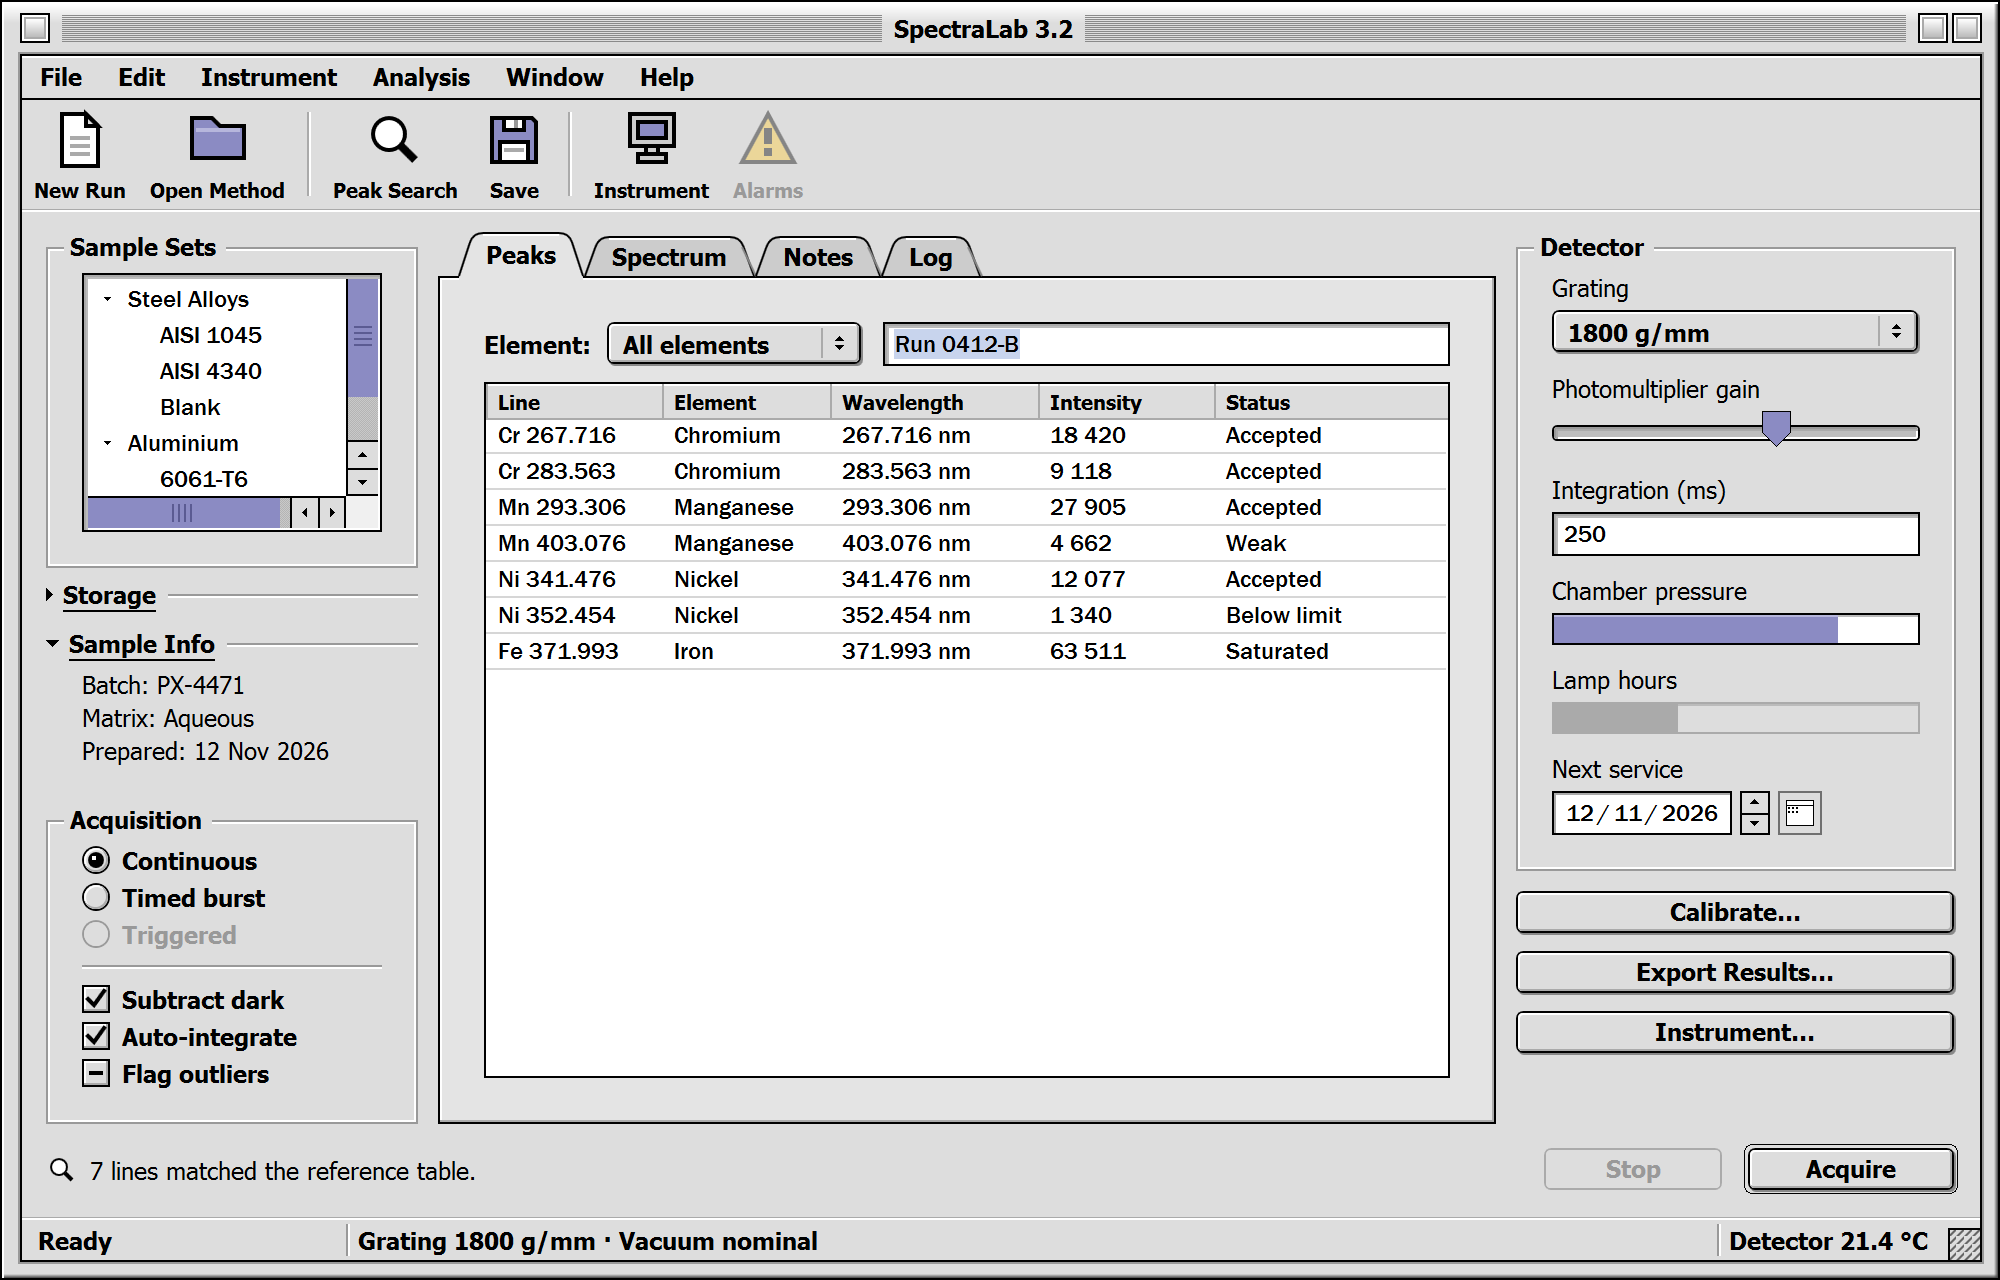
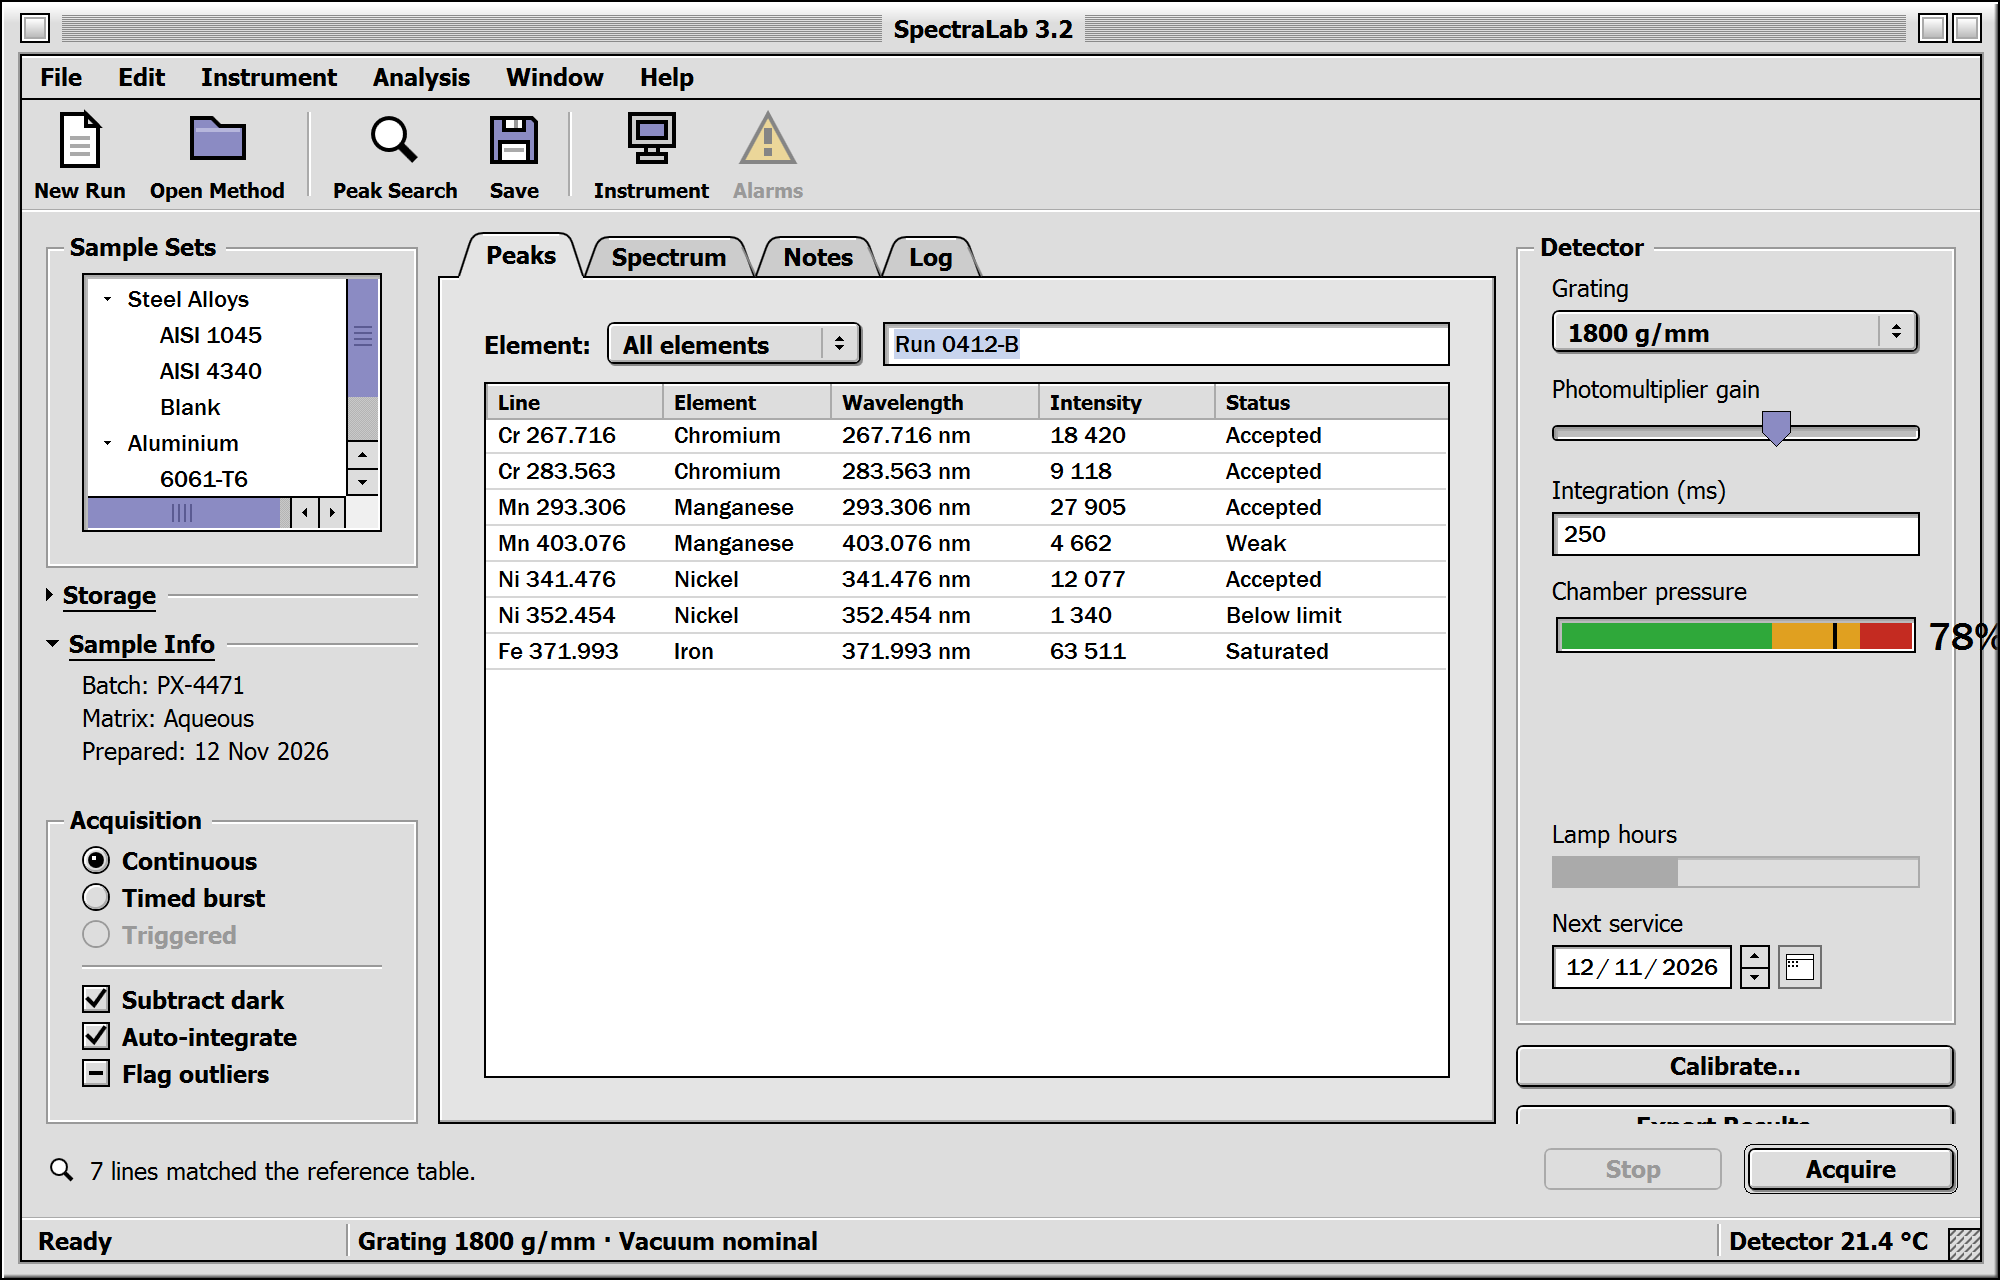
Pone el medidor de nivel en dos programas de muestra
CineCut estrena el búfer de las dos platinas, en modo Fill y con las
franjas al derecho: más es mejor, así que la baja es la roja. SpectraLab
usa la presión de cámara en modo Zones y en horizontal, con las franjas al
revés. El par muestra que el sentido lo decide quien declara las franjas y
no el control.

Los búferes se mueven con un reloj que camina los valores de verdad, no
con una animación sobre la propiedad: así se ve el relleno cambiando de
color al cruzar un umbral, que es lo único que un medidor quieto no
enseña. Y es como llega el dato en una aplicación real.

Deck B va sin escala: es la misma de Deck A, a la misma altura y con el
mismo rango, y repetirla solo gastaba el ancho que hacía falta para que la
cifra cupiera.

Changed region(s): [[0.744, 0.4688, 1.0, 0.875]]

diff --git a/src/MacOS9.Platinum.Gallery/VideoWindow.xaml b/src/MacOS9.Platinum.Gallery/VideoWindow.xaml
@@ -1,4 +1,4 @@
-<platinum:PlatinumWindow x:Class="MacOS9.Platinum.Gallery.VideoWindow"
+<platinum:PlatinumWindow x:Class="MacOS9.Platinum.Gallery.VideoWindow"
         xmlns="http://schemas.microsoft.com/winfx/2006/xaml/presentation"
         xmlns:x="http://schemas.microsoft.com/winfx/2006/xaml"
         xmlns:platinum="clr-namespace:MacOS9.Platinum.Controls;assembly=MacOS9.Platinum"
@@ -63,12 +63,33 @@
                 <RowDefinition Height="Auto" />
             </Grid.RowDefinitions>
             <Grid.ColumnDefinitions>
-                <ColumnDefinition Width="240" />
+                <ColumnDefinition Width="300" />
                 <ColumnDefinition Width="*" />
                 <ColumnDefinition Width="210" />
             </Grid.ColumnDefinitions>
 
-            <GroupBox Grid.Row="0" Grid.Column="0" Header="Bin" Margin="0,0,10,0">
+            <DockPanel Grid.Row="0" Grid.Column="0" Margin="0,0,10,0">
+
+              <!-- Búfer de las dos platinas. Modo Fill: el nivel se lee del área
+                   llena y el color dice si alcanza. Aquí más es mejor, así que la
+                   franja baja es la roja. -->
+              <GroupBox DockPanel.Dock="Bottom" Header="Deck buffers" Margin="0,10,0,0">
+                <DockPanel Margin="4,2,4,4">
+                  <StackPanel DockPanel.Dock="Left" Margin="0,0,14,0">
+                    <platinum:PlatinumLevelGauge x:Name="BuferA" Value="72" Height="150" ReadoutFontSize="16" />
+                    <TextBlock Text="Deck A" HorizontalAlignment="Center" Margin="0,4,0,0" />
+                  </StackPanel>
+                  <StackPanel>
+                    <!-- Sin escala: es la misma de Deck A, a la misma altura y con el mismo
+                         rango, así que repetirla solo gasta ancho. -->
+                    <platinum:PlatinumLevelGauge x:Name="BuferB" Value="38" Height="150"
+                                                 ReadoutFontSize="16" ShowScale="False" />
+                    <TextBlock Text="Deck B" HorizontalAlignment="Center" Margin="0,4,0,0" />
+                  </StackPanel>
+                </DockPanel>
+              </GroupBox>
+
+              <GroupBox Header="Bin">
                 <ListView x:Name="Clips" BorderThickness="0">
                     <ListView.View>
                         <GridView>
@@ -79,7 +100,8 @@
                         </GridView>
                     </ListView.View>
                 </ListView>
-            </GroupBox>
+              </GroupBox>
+            </DockPanel>
 
             <DockPanel Grid.Row="0" Grid.Column="1" Margin="0,0,10,0">
                 <!-- Cuadro de vista previa. Es un degradado y unas figuras, no un

diff --git a/src/MacOS9.Platinum.Gallery/MainWindow.xaml b/src/MacOS9.Platinum.Gallery/MainWindow.xaml
@@ -235,8 +235,16 @@
                         <TextBlock Text="Integration (ms)" Margin="0,0,0,4" />
                         <TextBox Text="250" Margin="0,0,0,10" />
 
+                        <!-- Modo Zones: en una presión de cámara lo que importa es
+                             en qué franja está, y verlas todas evita tener que
+                             recordar dónde queda el límite. -->
                         <TextBlock Text="Chamber pressure" Margin="0,0,0,4" />
-                        <ProgressBar Value="78" Height="16" Margin="0,0,0,10" />
+                        <platinum:PlatinumLevelGauge x:Name="Presion" Value="78"
+                                                     Orientation="Horizontal"
+                                                     BandMode="Zones"
+                                                     TrackThickness="18"
+                                                     ShowScale="False"
+                                                     Margin="0,0,0,10" />
 
                         <TextBlock Text="Lamp hours" Margin="0,0,0,4" />
                         <ProgressBar Value="34" Height="16" IsEnabled="False" Margin="0,0,0,10" />

diff --git a/src/MacOS9.Platinum.Gallery/VideoWindow.xaml.cs b/src/MacOS9.Platinum.Gallery/VideoWindow.xaml.cs
@@ -1,6 +1,8 @@
+using System;
 using System.Windows;
 using System.Windows.Controls;
 using System.Windows.Media;
+using System.Windows.Threading;
 using System.Windows.Shapes;
 using MacOS9.Platinum.Controls;
 
@@ -26,7 +28,44 @@ public partial class VideoWindow : PlatinumWindow
             new { Clip = "credits", Length = "00:36:02" },
         };
 
+        // Las franjas se declaran aquí y no en el marcado porque son las mismas dos
+        // veces: el búfer de las dos platinas se juzga con el mismo criterio.
+        foreach (PlatinumLevelGauge medidor in new[] { BuferA, BuferB })
+        {
+            medidor.Bands.Add(new LevelBand { To = 25, Fill = (Brush)FindResource("LedRedBrush") });
+            medidor.Bands.Add(new LevelBand { To = 50, Fill = (Brush)FindResource("LedAmberBrush") });
+            medidor.Bands.Add(new LevelBand { To = 100, Fill = (Brush)FindResource("LedGreenBrush") });
+        }
+
         Pista.SizeChanged += (_, _) => Dibujar();
+
+        // Los búferes se mueven. Un medidor quieto no enseña lo que hace: lo que
+        // hay que ver es el nivel subiendo y bajando, y el relleno cambiando de
+        // color al cruzar un umbral.
+        //
+        // No se anima la propiedad con una animación de WPF: aquí el valor cambia
+        // de verdad, que es como llega en una aplicación real. El control no tiene
+        // que animar nada, solo redibujarse cuando le cambian el valor.
+        var reloj = new DispatcherTimer { Interval = TimeSpan.FromMilliseconds(120) };
+        reloj.Tick += (_, _) =>
+        {
+            BuferA.Value = Deriva(BuferA.Value, 74);
+            BuferB.Value = Deriva(BuferB.Value, 34);
+        };
+        reloj.Start();
+    }
+
+    private readonly Random azar = new();
+
+    /// <summary>
+    /// Paseo aleatorio que tiende a volver a su centro. Sin ese regreso el nivel
+    /// se va a un extremo y se queda ahí, que es justo lo que no se quiere ver.
+    /// </summary>
+    private double Deriva(double actual, double centro)
+    {
+        double paso = (azar.NextDouble() - 0.5) * 7;
+        double regreso = (centro - actual) * 0.06;
+        return Math.Clamp(actual + paso + regreso, 4, 99);
     }
 
     private void Dibujar()

diff --git a/src/MacOS9.Platinum.Gallery/MainWindow.xaml.cs b/src/MacOS9.Platinum.Gallery/MainWindow.xaml.cs
@@ -1,5 +1,6 @@
-using System.Collections.Generic;
+using System.Collections.Generic;
 using System.Windows;
+using System.Windows.Media;
 using MacOS9.Platinum.Controls;
 
 namespace MacOS9.Platinum.Gallery;
@@ -30,6 +31,13 @@ public partial class MainWindow : PlatinumWindow
     {
         InitializeComponent();
         DataContext = this;
+
+        // En la presión de cámara más es peor, al revés que en el búfer de las
+        // platinas del editor de video. El medidor no supone ninguno de los dos
+        // sentidos: lo dice el orden de las franjas.
+        Presion.Bands.Add(new LevelBand { To = 60, Fill = (Brush)FindResource("LedGreenBrush") });
+        Presion.Bands.Add(new LevelBand { To = 85, Fill = (Brush)FindResource("LedAmberBrush") });
+        Presion.Bands.Add(new LevelBand { To = 100, Fill = (Brush)FindResource("LedRedBrush") });
 
         // Deja el campo con el texto seleccionado para poder revisar el resalte sin
         // reproducirlo a mano en cada arranque.

diff --git a/README.md b/README.md
@@ -23,7 +23,10 @@ parameter sliders paired to fields and a green status light.
 ![Numerix](docs/math.png)
 
 **CineCut** — the video editor. A hand-drawn timeline under the theme's chrome, an
-indeterminate bar for the audio scrub and a red light while it renders.
+indeterminate bar for the audio scrub and a red light while it renders. The two
+deck buffers are live: a timer walks the real values, so the level meters move and
+change colour as they cross a threshold. Nothing animates the control — the value
+changes, as it would in a real application, and the meter redraws.
 
 ![CineCut](docs/video.png)
 
